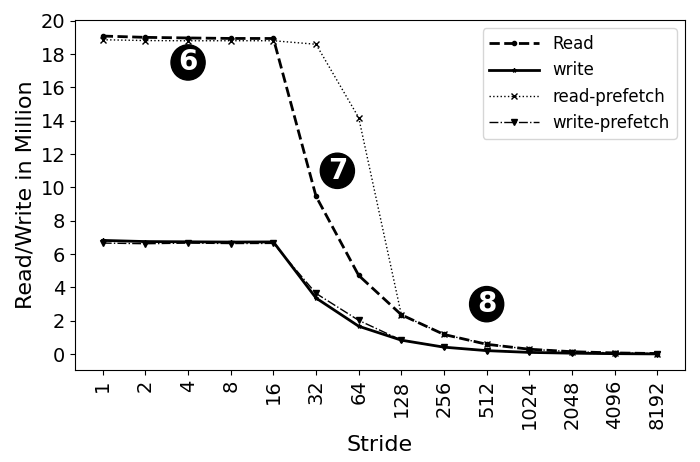
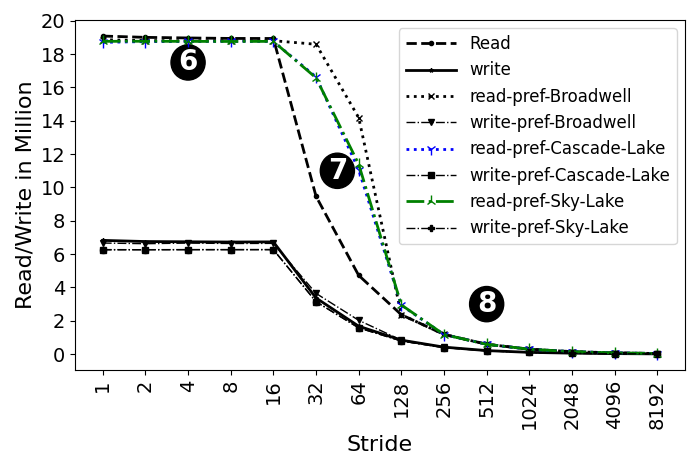
added the experiments for new processors

diff --git a/vecmul_cpu/ipdps_graph/pref_stride_method_initialization.py b/vecmul_cpu/ipdps_graph/pref_stride_method_initialization.py
@@ -26,10 +26,21 @@ write=[6824619,6755515,6740634,6725749,6734401,3368188,1676038,839272,420643,212
 read1=[18861923,18813995,18800278,18803630,18803353,18590975,14190254,2364840,1183868,594090,297740,149395,75338,37868]
 write1=[6665144,6625435,6662691,6637524,6645248,3644694,2029784,839811,421381,212587,106996,58520,31292,15906]
 
+readc=[18706394, 18750993, 18760631, 18766661, 18763123, 16630885, 11066714, 2930101, 1172688, 590092, 292798, 147153, 74118, 37785]
+writec=[6258120,6265611,6272502,6270325,6275745,3148710,1580119,789113,391925,199966,98858,50376,25516,14507]
+
+reads=[18765642,18772132,18764571,18759543,18764915,16576687,11395672,2952856,1175004,588251,295965,148305,74884,37756]
+writes=[6271286,6264048,6265378,6268979,6266406,3144219,1573146,789636,392824,196725,99267,50322,25902,13290]
+
+
 read = np.array(read) / 1000000
 write = np.array(write) / 1000000
 write1 = np.array(write1) / 1000000
 read1 = np.array(read1) / 1000000
+writec = np.array(writec) / 1000000
+readc = np.array(readc) / 1000000
+writes = np.array(writes) / 1000000
+reads = np.array(reads) / 1000000
 x_pos = np.arange(len(stride))  # the label locations
 
 #ax.barh(x_pos, read, hatch='....', color='white', edgecolor='black')
@@ -37,8 +48,17 @@ x_pos = np.arange(len(stride))  # the label locations
 
 plt.plot(stride, read, marker='o', markersize=3,  color='black', linestyle='dashed', label="Read", linewidth=2)
 plt.plot(stride, write, marker='*', markersize=3,  color='black', linestyle='solid', label="write", linewidth=2)
-plt.plot(stride, read1, marker='x', markersize=4,  color='black', linestyle='dotted', label="read-prefetch", linewidth=1)
-plt.plot(stride, write1, marker='v', markersize=4,  color='black', linestyle='dashdot', label="write-prefetch", linewidth=1)
+plt.plot(stride, read1, marker='x', markersize=4,  color='black', linestyle='dotted', label="read-pref-Broadwell", linewidth=2)
+plt.plot(stride, write1, marker='v', markersize=4,  color='black', linestyle='dashdot', label="write-pref-Broadwell", linewidth=1)
+
+plt.plot(stride, readc, marker='1', markersize=8,  color='blue', linestyle=':', label="read-pref-Cascade-Lake", linewidth=2)
+plt.plot(stride, writec, marker='s', markersize=4,  color='black', linestyle='dashdot', label="write-pref-Cascade-Lake", linewidth=1)
+
+
+plt.plot(stride, reads, marker='2', markersize=8,  color='green', linestyle='-.', label="read-pref-Sky-Lake", linewidth=2)
+plt.plot(stride, writes, marker='P', markersize=4,  color='black', linestyle='dashdot', label="write-pref-Sky-Lake", linewidth=1)
+
+
 
 #plt.plot(stride, read, "-b", label="Read")
 #plt.plot(stride, write, "-r", label="Write")
